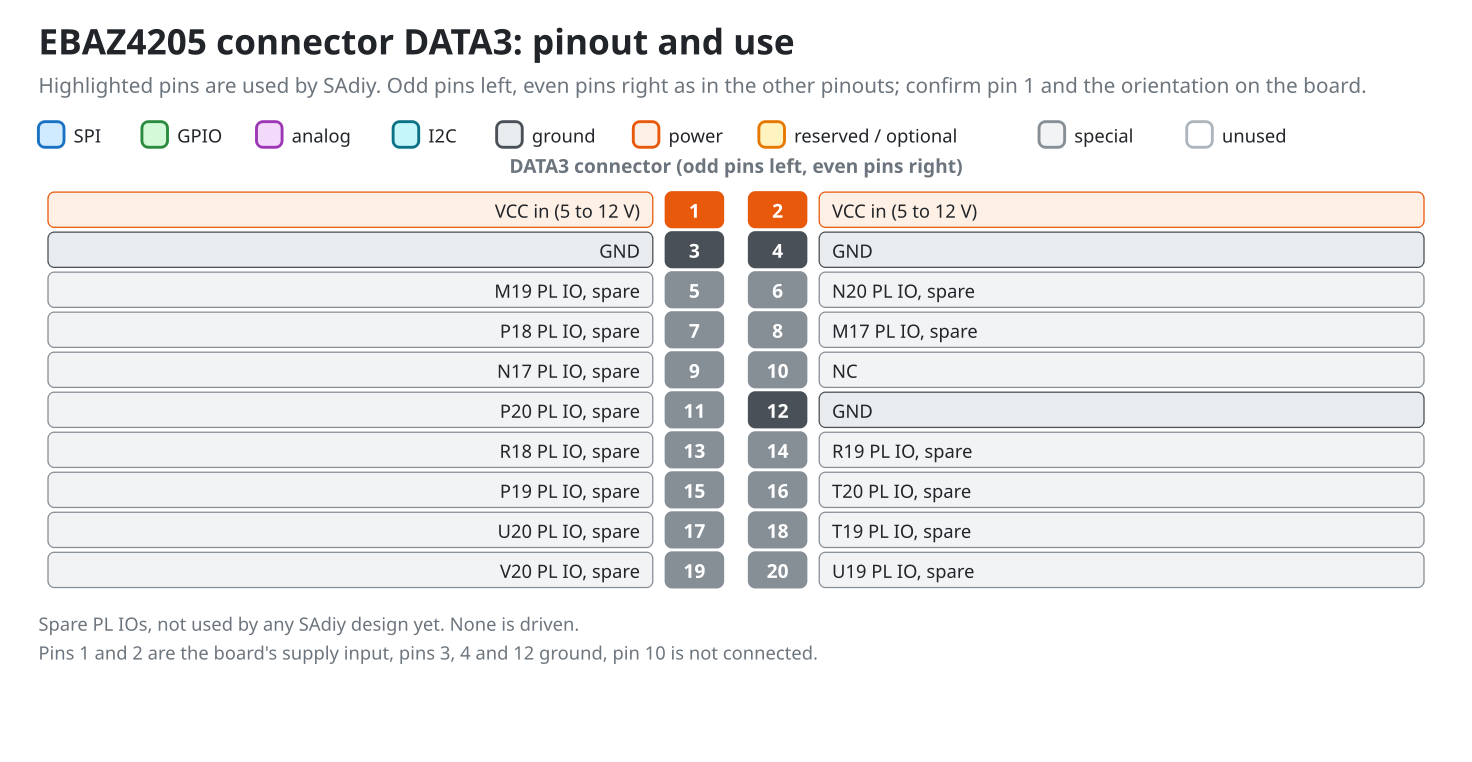
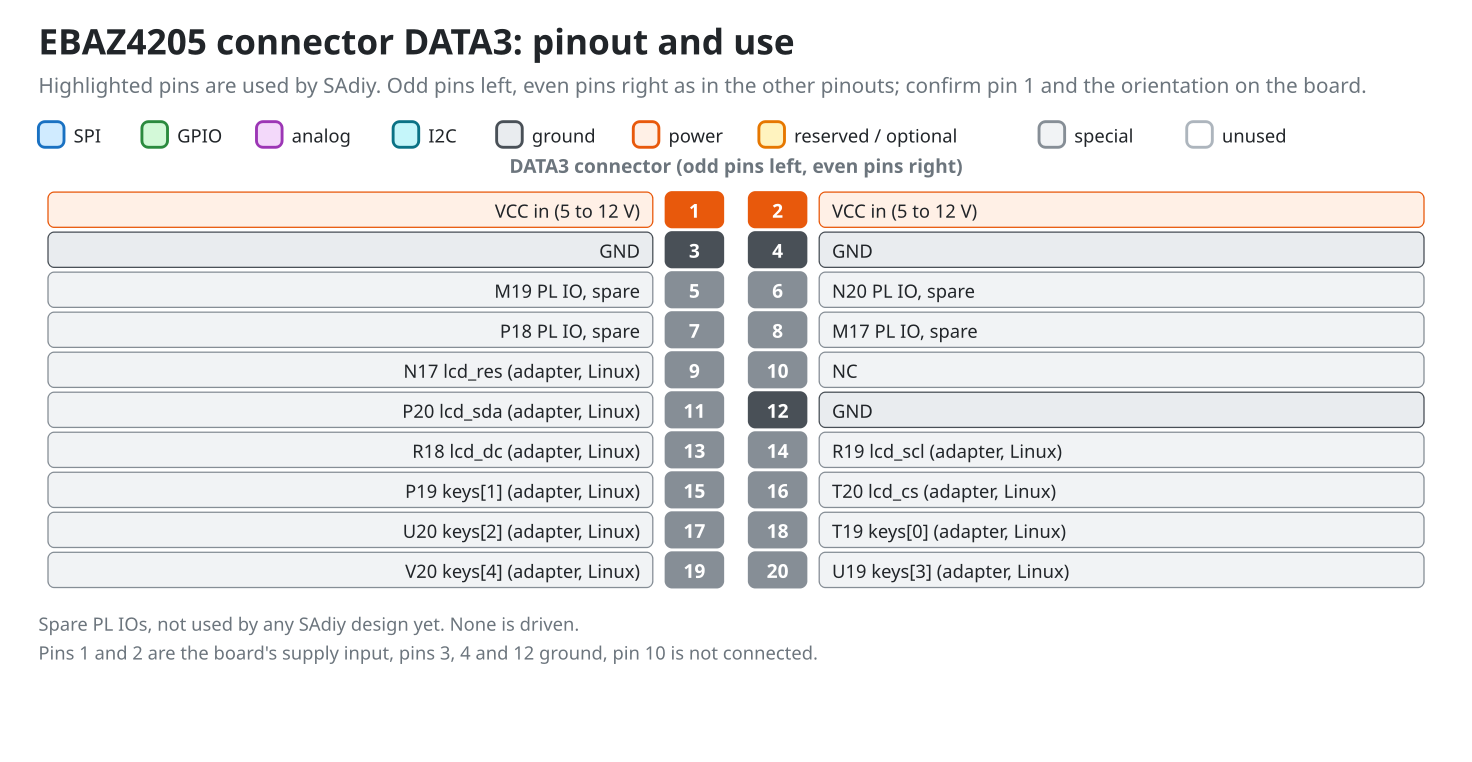
Adapter keys, display and LEDs in pins.toml; synth-ce --pl-owner checks the PL first
pins.toml: led[0..2] on H18/K17/E19 (the AD9226 pins adc_d[8], adc_d[10], adc_clk have no ball on this
adapter; they can be freed only with a different adapter PCB), keys and ST7789 pins as DATA3 entries
(active = false, names as in adapter_ui.xdc), notes on the other AD9226 balls the adapter uses.
pinmap_ebaz.py: DATA1 roles and new DATA3_ADAPTER; EBAZ DATA1/DATA3 figures regenerated; ebaz4205.xdc regenerated.
tools/bringup.py synth-ce --pl-owner: refuses while the FPGA manager says the PL is not configured
(shared helper sadiy_ebaz.devmem.pl_not_ready, also used by EbazPsBackend.prepare). 791 tests.

diff --git a/tools/bringup.py b/tools/bringup.py
@@ -15,7 +15,8 @@
   synth-ce on|off|release|read [--dry-run] [--gpio N] [--pl-owner]
                            run ON THE SBC: ADF4351 chip enable (BBB and EBAZ4205). off powers the chip down
                            (registers are lost: write R5..R0 again after on), release lets the adapter's
-                           jumper / pull-up decide. EBAZ: --pl-owner reads whether the PL engine owns CE
+                           jumper / pull-up decide. EBAZ: --pl-owner reads whether the PL engine owns CE (refuses
+                           while the PL is not configured: that read would stall the CPU)
   pll --mhz 110.7          divider / INT / FRAC / MOD, the real output frequency and the six register words
   sim-sweep                one simulated sweep, prints the strongest points
 """
@@ -135,8 +136,12 @@ def _ce_owner(args, pm):
 
     sys.path.insert(0, str(Path(__file__).resolve().parents[1] / "zynq-ebaz" / "sw"))   # or PYTHONPATH on the board
     from sadiy_ebaz.ce_owner import ce_owner_probe, has_ce_mux
-    from sadiy_ebaz.devmem import DevMemRegs
+    from sadiy_ebaz.devmem import DevMemRegs, pl_not_ready
 
+    why = pl_not_ready(args.fpga_state)                      # an AXI read of an unconfigured PL stalls the CPU
+    if why:
+        raise SystemExit(f"{why}: not reading the PL registers (a read would stall the CPU). Load the bitstream "
+                         "first (sadiy_pl_load.sh, or boot an image whose BOOT.BIN has it), or leave out --pl-owner")
     if not has_ce_mux():
         print("this register map has no CE mux (ADF_PINS.ce): CE is driven by Linux only")
         return None
@@ -145,7 +150,8 @@ def _ce_owner(args, pm):
 
 def cmd_ce(args):
     pm = platforms.get(args.platform)
-    ce = SynthCe(_ce_line(args, pm), _ce_owner(args, pm))
+    owner = _ce_owner(args, pm)                      # first: it may refuse, before any GPIO line is touched
+    ce = SynthCe(_ce_line(args, pm), owner)
     if args.action != "read":
         applied = {"on": ce.enable, "off": ce.disable, "release": ce.release}[args.action]()
         if not applied:
@@ -208,6 +214,7 @@ def main():
     e.add_argument("--dry-run", action="store_true", help="no hardware: a fake line (CE pulled high while released)")
     e.add_argument("--pl-owner", action="store_true", help="ebaz: ask the PL (/dev/mem) whether the engine owns CE")
     e.add_argument("--pl-base", type=lambda x: int(x, 0), default=0x43C00000)
+    e.add_argument("--fpga-state", default="/sys/class/fpga_manager/fpga0/state", help=argparse.SUPPRESS)   # tests
     e.set_defaults(fn=cmd_ce)
     f = sub.add_parser("adf4351-pattern")
     f.add_argument("--word", action="append", required=True, help="register word, e.g. 0x00580005")

diff --git a/src/sadiy/pinmap_ebaz.py b/src/sadiy/pinmap_ebaz.py
@@ -38,10 +38,17 @@ DATA2_SIGNALS: Dict[int, str] = {
     19: "pe4302_v[5]", 20: "i2c_scl", 11: "i2c_sda",
 }
 
-# DATA1 is reserved for the AD9226 module (Phase 4, not in the bitstream yet).
+# DATA1 is reserved for the AD9226 module (Phase 4, not in the bitstream yet), except the three balls that the
+# HelloFPGA adapter's LEDs use (pins.toml: led[0..2]; the LEDs can be freed only with a different adapter PCB).
 DATA1_ROLES: Dict[int, str] = {
     5: "adc_d[0]", 6: "adc_otr", 7: "adc_d[1]", 8: "adc_d[2]", 9: "adc_d[3]", 11: "adc_d[11]", 13: "adc_d[4]",
-    14: "adc_d[5]", 15: "adc_d[10]", 16: "adc_d[6]", 17: "adc_d[7]", 18: "adc_d[8]", 19: "adc_d[9]", 20: "adc_clk",
+    14: "adc_d[5]", 15: "led[0]", 16: "adc_d[6]", 17: "adc_d[7]", 18: "led[2]", 19: "adc_d[9]", 20: "led[1]",
+}
+
+# DATA3 pins that the adapter's display and keys occupy (Linux: PS SPI1 and EMIO GPIO), by pin number.
+DATA3_ADAPTER: Dict[int, str] = {
+    9: "lcd_res", 11: "lcd_sda", 13: "lcd_dc", 14: "lcd_scl", 15: "keys[1]", 16: "lcd_cs", 17: "keys[2]",
+    18: "keys[0]", 19: "keys[4]", 20: "keys[3]",
 }
 
 SUPPLY = {1: ("VCC in (5 to 12 V)", "power"), 2: ("VCC in (5 to 12 V)", "power"), 3: ("GND", "gnd"),
@@ -79,7 +86,11 @@ def _build() -> Dict[str, Pin]:
                 if header == "DATA2" and number in DATA2_SIGNALS:
                     name, kind = f"{ball}  {DATA2_SIGNALS[number]}", "free"
                 elif header == "DATA1":
-                    name, kind = f"{ball}  {DATA1_ROLES[number]} (AD9226, later)", "special"
+                    role = DATA1_ROLES[number]
+                    what = "adapter LED" if role.startswith("led") else "AD9226, later"
+                    name, kind = f"{ball}  {role} ({what})", "special"
+                elif header == "DATA3" and number in DATA3_ADAPTER:
+                    name, kind = f"{ball}  {DATA3_ADAPTER[number]} (adapter, Linux)", "special"
                 elif header == "DATA2":
                     name, kind = f"{ball}  spare", "special"
                 else:

diff --git a/tests/test_platforms.py b/tests/test_platforms.py
@@ -89,7 +89,7 @@ def test_ebaz_pin_map_agrees_with_pins_toml():
     by_pin = {(s["connector"], s["pin"]): s for s in _toml_signals().values()}
     for header, balls in pinmap_ebaz.BALLS.items():
         for number, ball in balls.items():
-            if header == "DATA3" and (header, number) not in by_pin:      # DATA3 is not in pins.toml yet
+            if header == "DATA3" and (header, number) not in by_pin:      # only the adapter's keys and display are listed
                 continue
             assert by_pin[(header, number)]["ball"] == ball, f"{header}.{number}"
     for number, signal in pinmap_ebaz.DATA2_SIGNALS.items():
@@ -97,6 +97,9 @@ def test_ebaz_pin_map_agrees_with_pins_toml():
         assert sig["name"] == signal and sig.get("active", True)
     for number, role in pinmap_ebaz.DATA1_ROLES.items():
         assert by_pin[("DATA1", number)]["name"] == role
+    for number, role in pinmap_ebaz.DATA3_ADAPTER.items():
+        assert by_pin[("DATA3", number)]["name"] == role
+    assert {n for (h, n) in by_pin if h == "DATA3"} == set(pinmap_ebaz.DATA3_ADAPTER)
 
 
 # ---------------------------------------------------------------- bench on the EBAZ map

diff --git a/tests/test_synth_ce.py b/tests/test_synth_ce.py
@@ -109,3 +109,21 @@ def test_bringup_finds_sadiy_without_pythonpath():
                          capture_output=True, text=True, env={"PATH": "/usr/bin"}, cwd="/", timeout=30)
     assert out.returncode == 0, out.stderr
     assert "CE (DATA2.13, ebaz)" in out.stdout
+
+
+def test_pl_owner_refuses_an_unconfigured_pl(tmp_path):
+    """--pl-owner reads /dev/mem; with the PL not configured that read stalls the CPU, so it must stop first."""
+    state = tmp_path / "state"
+    state.write_text("unknown\n")
+    out = run("ebaz", "read", "--dry-run", "--pl-owner", "--fpga-state", str(state))
+    assert out.returncode != 0
+    assert "PL is unknown" in out.stderr and "stall" in out.stderr and "sadiy_pl_load.sh" in out.stderr
+    assert "CE (" not in out.stdout
+
+
+def test_pl_owner_passes_the_state_check_when_operating(tmp_path):
+    """With the PL operating the check lets it through; what fails next is /dev/mem (not a board), not the check."""
+    state = tmp_path / "state"
+    state.write_text("operating\n")
+    out = run("ebaz", "read", "--dry-run", "--pl-owner", "--fpga-state", str(state))
+    assert "PL is" not in out.stderr and "stall" not in out.stderr

diff --git a/zynq-ebaz/sw/sadiy_ebaz/ps_backend.py b/zynq-ebaz/sw/sadiy_ebaz/ps_backend.py
@@ -20,10 +20,10 @@ from typing import Callable, List, Optional
 from sadiy.hal.base import AnalogInput, BenchBackend, I2cBus, SpiBus
 from sadiy.hal.linux import LinuxI2c, SpidevBus, SysfsGpio, zynq_gpio_base
 
+from .devmem import FPGA_STATE, pl_not_ready
 from .regmap_toml import REGS
 
 log = logging.getLogger("sadiy.ebaz_ps")
-FPGA_STATE = Path("/sys/class/fpga_manager/fpga0/state")
 
 
 def release_pl_pins(regs, *, timeout_s: float = 0.5, sleep: Callable[[float], None] = time.sleep,
@@ -91,12 +91,9 @@ class EbazPsBackend(BenchBackend):
 
     def prepare(self) -> List[str]:
         """Called when bench mode opens: hand the pins to the PS if the PL engine holds them."""
-        try:
-            state = self._state_path.read_text().strip()
-        except OSError:
-            state = None
-        if state is not None and state != "operating":
-            return [f"PL is {state}: pin ownership not checked"]
+        why = pl_not_ready(self._state_path)
+        if why:
+            return [f"{why}: pin ownership not checked"]
         try:
             if self._open_regs is None:
                 from .devmem import DEFAULT_BASE, DevMemRegs

diff --git a/zynq-ebaz/sw/sadiy_ebaz/devmem.py b/zynq-ebaz/sw/sadiy_ebaz/devmem.py
@@ -11,9 +11,22 @@ from __future__ import annotations
 
 import mmap
 import os
+from pathlib import Path
+from typing import Optional
 
 DEFAULT_BASE = 0x43C00000   # M_AXI_GP0, fixed in the Vivado address map (handover-F2)
 DEFAULT_SIZE = 0x1000
+FPGA_STATE = Path("/sys/class/fpga_manager/fpga0/state")   # "operating" once a bitstream is loaded
+
+
+def pl_not_ready(state_path: Path = FPGA_STATE) -> Optional[str]:
+    """Why the PL registers must not be touched yet ("PL is unconfigured"), or None when the PL is configured or
+    the state cannot be read (not a board with an FPGA manager: DevMemRegs then fails or is the caller's choice)."""
+    try:
+        state = Path(state_path).read_text().strip()
+    except OSError:
+        return None
+    return None if state == "operating" else f"PL is {state}"
 PAGE = mmap.PAGESIZE
 
 

diff --git a/zynq-ebaz/sw/tests/test_ps_backend.py b/zynq-ebaz/sw/tests/test_ps_backend.py
@@ -209,3 +209,14 @@ def test_sweepd_bench_only_starts_on_ebaz_hardware_mode(tmp_path):
         p.terminate()
         out = p.communicate(timeout=10)[0]
     assert "bench-only on EBAZ4205" in out and "Traceback" not in out
+
+
+def test_pl_not_ready(tmp_path):
+    from sadiy_ebaz.devmem import pl_not_ready
+
+    state = tmp_path / "state"
+    state.write_text("operating\n")
+    assert pl_not_ready(state) is None
+    state.write_text("unknown\n")
+    assert pl_not_ready(state) == "PL is unknown"
+    assert pl_not_ready(tmp_path / "missing") is None        # no FPGA manager: not decided here

diff --git a/zynq-ebaz/log_linux.md b/zynq-ebaz/log_linux.md
@@ -102,3 +102,13 @@ Current state in one line (update at each entry): **Image rebuilt 2026-11-15 14:
 - The 2026-11-14 BOOT.BIN held R's 17:09 bitstream = map 1.0; the sweep path (`detector = "pl"`) needs map >= 1.1, so docs that said "BOOT.BIN holds the engine bitstream" were incomplete (found by R's alignment check). Fixed in `docs/how-to-start.md`, `STATUS-linux.md`, `ebaz-bringup.md`, `deploy/README.md`.
 - Rebuilt with `build_ebaz_sadiy.sh` from `build/fpga/ebaz_sadiy.xsa` of 2026-11-15 00:03 (snapshot `xsa/ebaz_sadiy_20261115_0003.xsa`, now the script's default): config and build succeeded, 8108 of 8249 tasks cached. `ps7_init.c/.h/.tcl` and `ps7_init_gpl.c` are byte-identical to the 17:09 XSA, `system.dtb`, `image.ub` and `boot.scr` unchanged, so only the bitstream in BOOT.BIN changed (checked: a chunk that differs between the two bitstreams is only in the matching BOOT.BIN). `images/linux/system.bit` matches neither XSA's bitstream (dated 2026-11-14 13:00) and is not used by `bootgen.bif` (it takes `project-spec/hw-description/ebaz_sadiy.bit`).
 - Old boot files saved in the project's `images/map10-backup/`. Copy `images/linux/BOOT.BIN` (and `image.ub`) to the FAT partition; the rootfs stays. Not booted on the board.
+
+## 2026-11-15 bringup.py synth-ce --pl-owner checks the PL first (R's review point)
+- `--pl-owner` opened `/dev/mem` without asking whether a bitstream is loaded; on an unconfigured PL that read stalls the CPU. Now `sadiy_ebaz.devmem.pl_not_ready()` (FPGA manager state, shared with `EbazPsBackend.prepare()`) runs first, before any GPIO line is opened, and the command stops with "PL is <state>: not reading the PL registers". An unreadable state file passes (not a board). Tests: `tests/test_synth_ce.py` (2), `sw/tests/test_ps_backend.py` (1). 791 passed. Not run on the board.
+
+## 2026-11-15 adapter pins in pins.toml (for R: please read; answers R's "L: add them there when known")
+- User decision: the adapter's LEDs stay as they are (they can be freed only with a different adapter PCB), so `rtl/vivado/pins.toml` lists them and the AD9226 pins `adc_d[8]` (E19), `adc_d[10]` (H18) and `adc_clk` (K17) have no ball on this adapter. DATA1-15 = `led[0]` (H18), DATA1-20 = `led[1]` (K17), DATA1-18 = `led[2]` (E19). The other AD9226 balls shared with the adapter (H16/H17 UART header, D19/C20/B19/F19 HDMI, D18 buzzer) got a note.
+- DATA3 keys and display added: KEY1..5 = T19 P19 U20 U19 V20 = DATA3-18, 15, 17, 20, 19; LCD CS/DC/RES/SCL/SDA = T20 R18 N17 R19 P20 = DATA3-16, 13, 9, 14, 11. Source: the schematic's text layer (ball next to its DATA pin); the same balls are in `BALLS` of `pinmap_ebaz.py`, which came from another source. Not checked by continuity. All new entries are `active = false` (the Phase 1 top level has no such ports; the engine build keeps constraining them in `rtl/fpga/constraints/adapter_ui.xdc`), names equal to the ports there (`led[n]`, `keys[n]`, `lcd_*`), so `gen_pinmap.py` shows them as in use.
+- User confirmed on the adapter: the right-hand connector row 3 left (below G19) is J20, not U20; U20 is KEY3. The "verify on the board" notes can go (`docs/pinmap.md`, `gen_pinmap.py`, `log_rtl.md`).
+- For R to regenerate (generated or your files, not touched by me): `docs/pinmap.md` and the pin figures (`gen_pinmap.py` needs the Vivado package CSV), `rtl/fpga/constraints/data2_pins.xdc` (its commented DATA1 lines still show adc_d[8], adc_d[10], adc_clk; `check_pins.sh` ignores comments and says identical), `ADC_PROPOSAL` / `DATA1_ON_ADAPTER` in `gen_pinmap.py` if you want the three AD9226 pins marked as unavailable there. Linux side: `pinmap_ebaz.py` (DATA1 roles, new `DATA3_ADAPTER`), the EBAZ Pins tab and `hw/diagrams/ebaz-data1/3-pinout` follow. 791 passed.
+

diff --git a/CLAUDE.md b/CLAUDE.md
@@ -18,7 +18,7 @@ Only one machine works on the project at a time; `origin` (GitHub) is the single
 
 ```
 . .venv/bin/activate
-pytest                                  # 728 passed at last check (2026-11-14); GUI tests are skipped without the GUI deps
+pytest                                  # 791 passed at last check (2026-11-15); GUI tests are skipped without the GUI deps
 python -m sadiy.server.sweepd --sim &   # simulated chain, tcp 5556 (frames) / 5557 (commands)
 python -m sadiy.ui.sa_gui --sim         # GUI against its own simulator
 python -m sadiy.server.sweepd --bench-only       # on the BBB: only bench mode, real hardware (add --sim for the fake board)
